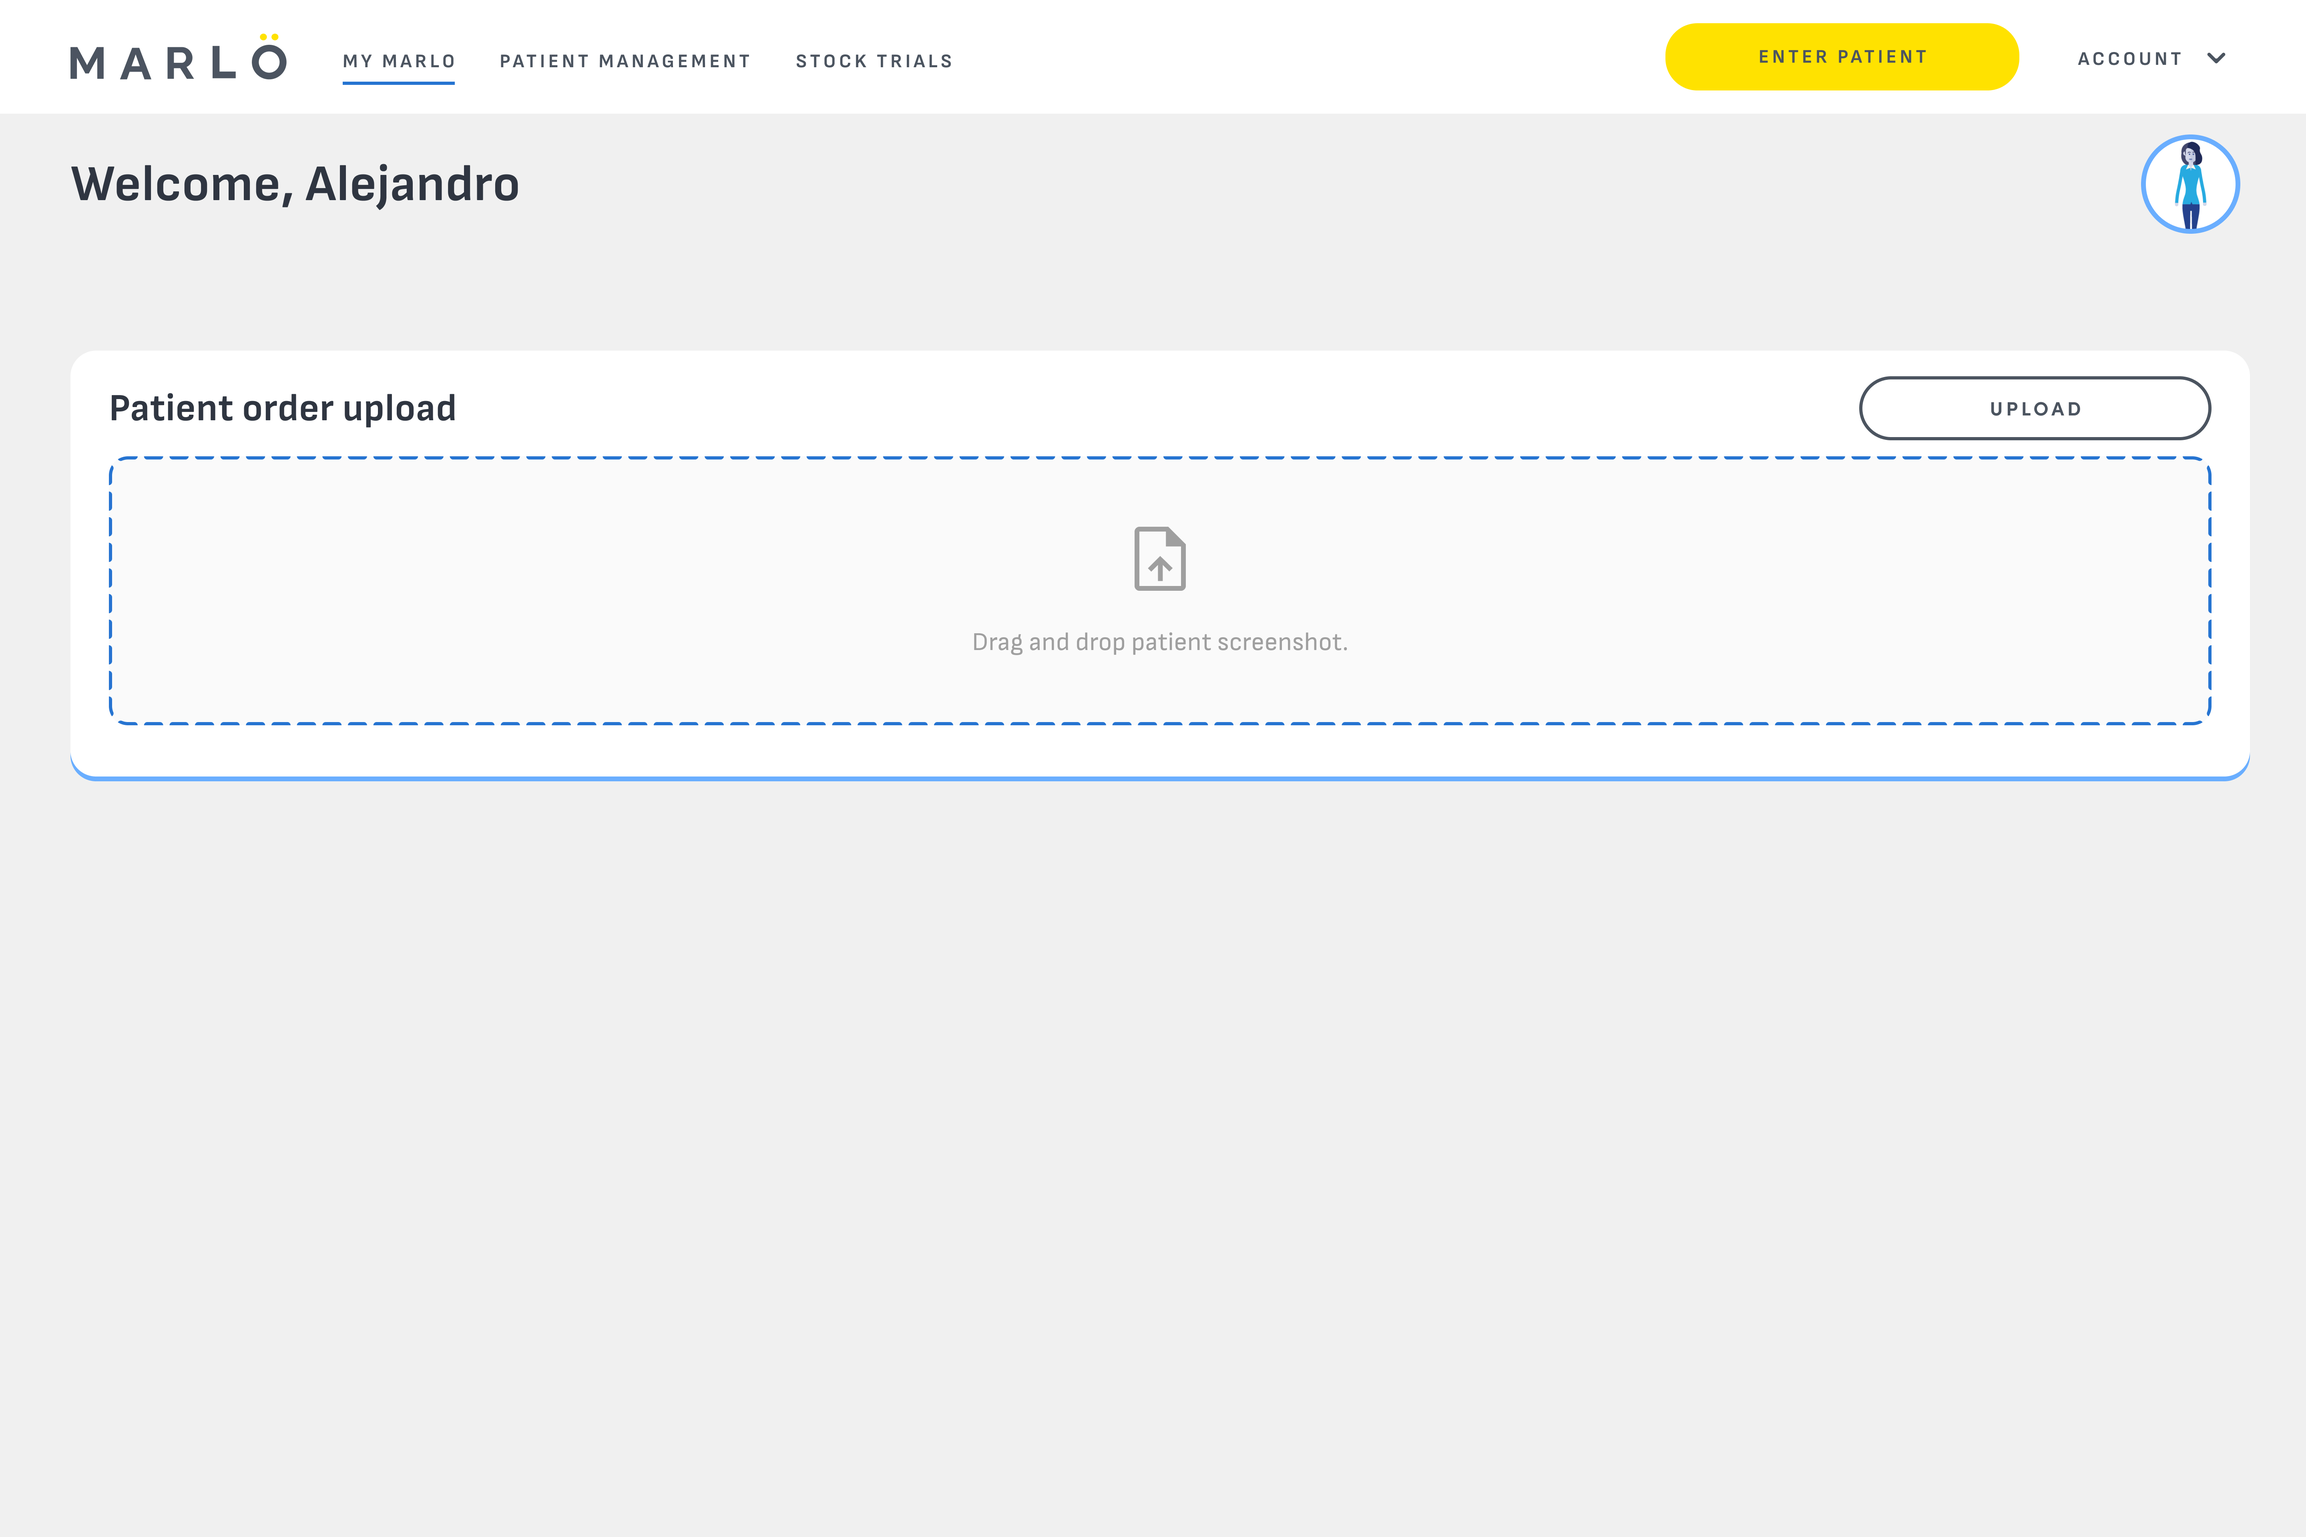
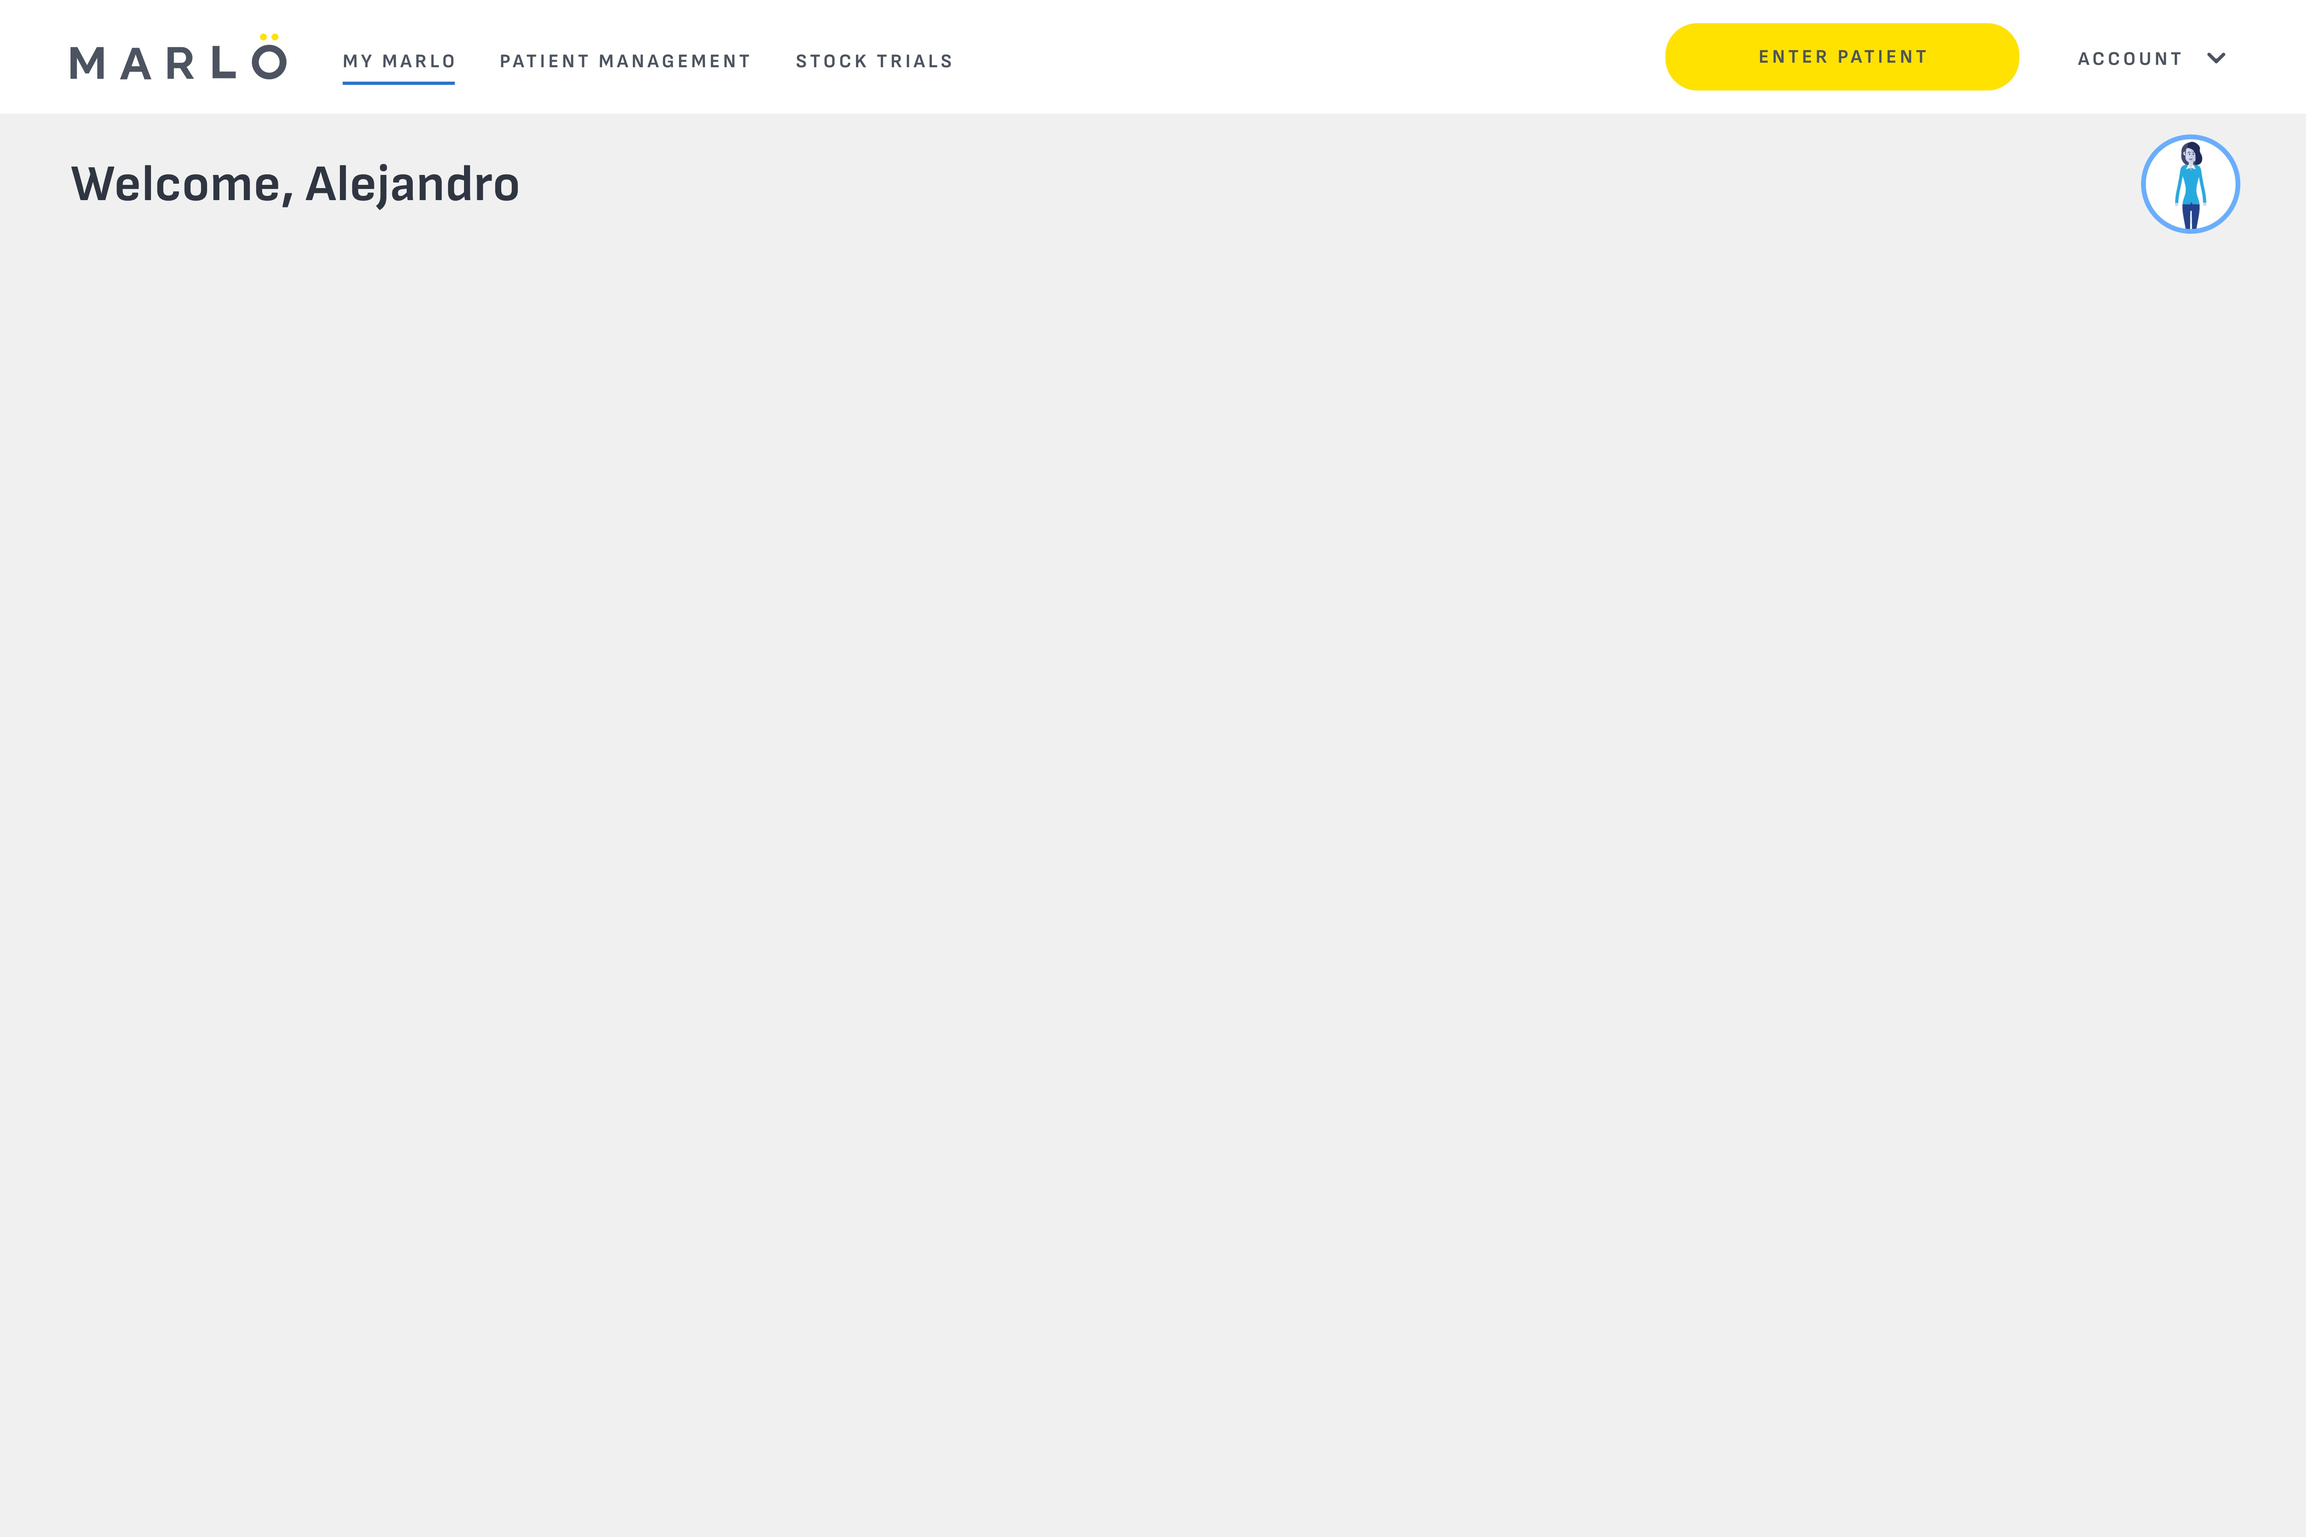
pushing up

diff --git a/client/src/Pages/PendingOrders/PatientOrder.jsx b/client/src/Pages/PendingOrders/PatientOrder.jsx
@@ -121,52 +121,107 @@ const PatientOrder = ({ patientData }) => {
           <path
             d="M4.5 9.09977L7.44029 12.375L13.5 5.625"
             stroke="#4FBD9B"
-            stroke-width="2"
+            strokeWidth="2"
           />
         </svg>{" "}
         <span style={nameStyle}>{patientData.name}</span>
       </div>
-
-      <div style={sectionStyle}>
-        <div style={titleStyle}>Right Eye (OD)</div>
-        <div style={productStyle}>
-          <img src={productImage} alt="Product" style={productImageStyle} />
-          <div style={productInfoStyle}>
-            <div style={productNameStyle}>{patientData.productName}</div>
-            <div style={shippingDurationStyle}>
-              {patientData.shippingDuration}
+      <div
+        style={{
+          display: "flex",
+          flexDirection: "row",
+          justifyContent: "space-between",
+          width: "1200px",
+        }}
+      >
+        <div style={{ width: "48%" }}>
+          <div style={sectionStyle}>
+            <div style={titleStyle}>Right Eye (OD)</div>
+            <div style={productStyle}>
+              <img src={productImage} alt="Product" style={productImageStyle} />
+              <div style={productInfoStyle}>
+                <div style={productNameStyle}>{patientData?.supplierRight}</div>
+                <div style={shippingDurationStyle}>
+                  {patientData?.manufacturerRight}
+                </div>
+              </div>
             </div>
           </div>
-        </div>
-      </div>
 
-      <div style={sectionStyle}>
-        <div style={prescriptionStyle}>
-          <div style={prescriptionItemStyle}>
-            <div style={propertiesLabelStyle}>BC</div>
-            <div style={propertiesStyle}>{patientData.prescription.BC}</div>
+          <div style={sectionStyle}>
+            <div style={prescriptionStyle}>
+              <div style={prescriptionItemStyle}>
+                <div style={propertiesLabelStyle}>BC</div>
+                <div style={propertiesStyle}>{patientData?.baseCurveRight}</div>
+              </div>
+              <div style={prescriptionItemStyle}>
+                <div style={propertiesLabelStyle}>DIA</div>
+                <div style={propertiesStyle}> {patientData?.diameterRight}</div>
+              </div>
+              <div style={prescriptionItemStyle}>
+                <div style={propertiesLabelStyle}>SPH</div>
+                <div style={propertiesStyle}>{patientData?.sphereRight}</div>
+              </div>
+              <div style={prescriptionItemStyle}>
+                <div style={propertiesLabelStyle}>CYL</div>
+                <div style={propertiesStyle}>
+                  {patientData?.prescription?.CYL
+                    ? patientData?.prescription?.CYL
+                    : "--"}
+                </div>
+              </div>
+            </div>
           </div>
-          <div style={prescriptionItemStyle}>
-            <div style={propertiesLabelStyle}>DIA</div>
-            <div style={propertiesStyle}> {patientData.prescription.DIA}</div>
-          </div>
-          <div style={prescriptionItemStyle}>
-            <div style={propertiesLabelStyle}>PWR</div>
-            <div style={propertiesStyle}>{patientData.prescription.PWR}</div>
-          </div>
-          <div style={prescriptionItemStyle}>
-            <div style={propertiesLabelStyle}>CYL</div>
-            <div style={propertiesStyle}>{patientData.prescription.CYL}</div>
+
+          <div style={sectionStyle}>
+            <div style={titleStyle}>Address</div>
+            <div style={addressStyle}>{patientData?.address}</div>
           </div>
         </div>
-      </div>
 
-      <div style={sectionStyle}>
-        <div style={titleStyle}>Address</div>
-        <div style={addressStyle}>
-          {patientData.address.street}
-          <br />
-          {patientData.address.cityStateZip}
+        <div style={{ width: "48%" }}>
+          <div style={sectionStyle}>
+            <div style={titleStyle}>Left Eye (OS)</div>
+            <div style={productStyle}>
+              <img src={productImage} alt="Product" style={productImageStyle} />
+              <div style={productInfoStyle}>
+                <div style={productNameStyle}>{patientData?.supplierLeft}</div>
+                <div style={shippingDurationStyle}>
+                  {patientData?.manufacturerLeft}
+                </div>
+              </div>
+            </div>
+          </div>
+
+          <div style={sectionStyle}>
+            <div style={prescriptionStyle}>
+              <div style={prescriptionItemStyle}>
+                <div style={propertiesLabelStyle}>BC</div>
+                <div style={propertiesStyle}>{patientData?.baseCurveLeft}</div>
+              </div>
+              <div style={prescriptionItemStyle}>
+                <div style={propertiesLabelStyle}>DIA</div>
+                <div style={propertiesStyle}> {patientData?.diameterLeft}</div>
+              </div>
+              <div style={prescriptionItemStyle}>
+                <div style={propertiesLabelStyle}>SPH</div>
+                <div style={propertiesStyle}>{patientData?.sphereLeft}</div>
+              </div>
+              <div style={prescriptionItemStyle}>
+                <div style={propertiesLabelStyle}>CYL</div>
+                <div style={propertiesStyle}>
+                  {patientData?.prescription?.CYL
+                    ? patientData?.prescription?.CYL
+                    : "--"}
+                </div>
+              </div>
+            </div>
+          </div>
+
+          <div style={sectionStyle}>
+            <div style={titleStyle}>Address</div>
+            <div style={addressStyle}>{patientData?.address}</div>
+          </div>
         </div>
       </div>
     </div>

diff --git a/client/src/Components/FileUpload.jsx b/client/src/Components/FileUpload.jsx
@@ -1,4 +1,3 @@
-// src/FileUpload.js
 import React, { useState, useEffect, useCallback, useRef } from "react";
 import { useDropzone } from "react-dropzone";
 import "./FileUpload.css";
@@ -36,13 +35,11 @@ const img = {
 };
 
 const FileUpload = () => {
-  const [selectedImage, setSelectedImage] = useState(null);
   const [files, setFiles] = useState([]);
   const [prompt, setPrompt] = useState("Drag and drop files here");
   const [formData, setFormData] = useState(null);
   const [error, setError] = useState(null);
   const [loading, setLoading] = useState(false);
-  const [analysis, setAnalysis] = useState(null);
   const fileInputRef = useRef(null);
 
   const getApiBaseUrl = () => {
@@ -59,7 +56,6 @@ const FileUpload = () => {
     if (file) {
       const reader = new FileReader();
       reader.onloadend = () => {
-        setSelectedImage(reader.result);
         setFiles([...acceptedFiles]);
       };
       reader.readAsDataURL(file);
@@ -77,7 +73,6 @@ const FileUpload = () => {
     if (file) {
       const reader = new FileReader();
       reader.onloadend = () => {
-        setSelectedImage(reader.result);
         setFiles([file]);
       };
       reader.readAsDataURL(file);
@@ -88,7 +83,6 @@ const FileUpload = () => {
     event.preventDefault();
     if (!files.length) return;
     setError(null);
-    setAnalysis(null);
     const formData = new FormData();
     formData.append("image", files[0]);
     try {
@@ -104,7 +98,6 @@ const FileUpload = () => {
           result.error || "An error occurred while uploading the image."
         );
       }
-      setAnalysis(result.text);
       const parsedData = parseAnalysisToFormData(result.text);
       setFormData(parsedData);
     } catch (error) {
@@ -158,11 +151,6 @@ const FileUpload = () => {
     }
   };
 
-  const handleFormDataChange = (newFormData) => {
-    setFormData(newFormData);
-    console.log("Updated form data:", newFormData);
-  };
-
   const thumbs = files.map((file) => (
     <div style={thumb} key={file.name}>
       <div style={thumbInner}>
@@ -180,43 +168,46 @@ const FileUpload = () => {
     return () => files.forEach((file) => URL.revokeObjectURL(file.preview));
   }, [files]);
 
-  console.log(formData);
   if (formData) {
-    return <PendingOrders />;
+    return <PendingOrders patientData={formData} />;
   }
 
   return (
-    <div className="upload-container">
-      <div className="upload-header">
-        <h2>Patient order upload</h2>
-        <input
-          type="file"
-          accept="image/*"
-          onChange={handleImageChange}
-          ref={fileInputRef}
-          style={{ display: "none" }}
-        />
-        <button className="upload-button" onClick={handleUpload}>
-          UPLOAD
-        </button>
-      </div>
-      <div {...getRootProps({ className: "dropzone" })}>
-        <input {...getInputProps()} />
-        <div className="dropzone-content">
-          <div className="dropzone-icon">
-            <i className="fas fa-file-upload"></i>
-          </div>
-          {isDragActive ? <p>Drop the files here...</p> : <p>{prompt}</p>}
+    <>
+      <header className="App-header"></header>
+      <div className="upload-container">
+        <div className="upload-header">
+          <h2>Patient order upload</h2>
+          <input
+            type="file"
+            accept="image/*"
+            onChange={handleImageChange}
+            ref={fileInputRef}
+            style={{ display: "none" }}
+          />
+          <button className="upload-button" onClick={handleUpload}>
+            UPLOAD
+          </button>
         </div>
-        <aside style={thumbsContainer}>{thumbs}</aside>
-        {error && (
-          <div style={{ color: "red", textAlign: "center" }}>
-            <h2>Error:</h2>
-            <p>{error}</p>
+        <div {...getRootProps({ className: "dropzone" })}>
+          <input {...getInputProps()} />
+          <div className="dropzone-content">
+            <div className="dropzone-icon">
+              <i className="fas fa-file-upload"></i>
+            </div>
+            {isDragActive ? <p>Drop the files here...</p> : <p>{prompt}</p>}
           </div>
-        )}
+          <aside style={thumbsContainer}>{thumbs}</aside>
+          {loading && <div>Loading...</div>}
+          {error && (
+            <div style={{ color: "red", textAlign: "center" }}>
+              <h2>Error:</h2>
+              <p>{error}</p>
+            </div>
+          )}
+        </div>
       </div>
-    </div>
+    </>
   );
 };
 

diff --git a/client/src/Pages/PendingOrders/PendingOrders.jsx b/client/src/Pages/PendingOrders/PendingOrders.jsx
@@ -3,7 +3,9 @@ import PatientOrder from "./PatientOrder";
 import backgroundImage from "./background.png";
 import ordersImage from "./orders.png";
 
-const PendingOrders = () => {
+const PendingOrders = (props) => {
+  const { patientData } = props;
+  console.log(patientData);
   const containerStyle = {
     position: "relative",
     width: "100%",
@@ -43,22 +45,51 @@ const PendingOrders = () => {
     height: "570px",
   };
 
-  const patientData = {
-    name: "Zain Workman",
-    productImage: "./product-image.png", // You'll need to add this image
-    productName: "DAILIES® AquaComfort Plus® Multifocal",
-    shippingDuration: "12 months shipped",
-    prescription: {
-      BC: "8.6",
-      DIA: "14.2",
-      PWR: "-20.00",
-      CYL: "+1.25",
-    },
-    address: {
-      street: "4993 Street St.",
-      cityStateZip: "Fort Worth, TX 76063",
-    },
-  };
+  // {
+  //   "name": "Moira Rose",
+  //   "address": "13774 Northwest Freeway Sometown, CA 95630",
+  //   "underlyingConditionRight": "--",
+  //   "underlyingConditionLeft": "--",
+  //   "supplierRight": "Eyefinity - ABB",
+  //   "supplierLeft": "Eyefinity - ABB",
+  //   "manufacturerRight": "Alcon Laboratories Inc",
+  //   "manufacturerLeft": "Alcon Laboratories Inc",
+  //   "styleRight": "Precision1 90 Pack",
+  //   "styleLeft": "Precision1 90 Pack",
+  //   "sphereRight": "-5.50",
+  //   "sphereLeft": "-5.50",
+  //   "cylinderRight": "--",
+  //   "cylinderLeft": "--",
+  //   "axisRight": "--",
+  //   "axisLeft": "--",
+  //   "addRight": "--",
+  //   "addLeft": "--",
+  //   "baseCurveRight": "8.3",
+  //   "baseCurveLeft": "8.3",
+  //   "diameterRight": "14.2",
+  //   "diameterLeft": "14.2",
+  //   "colorRight": "Clear",
+  //   "colorLeft": "Clear",
+  //   "quantityRight": "4",
+  //   "quantityLeft": "4"
+  // }
+
+  // const patientData = {
+  //   name: "Zain Workman",
+  //   productImage: "./product-image.png", // You'll need to add this image
+  //   productName: "DAILIES® AquaComfort Plus® Multifocal",
+  //   shippingDuration: "12 months shipped",
+  //   prescription: {
+  //     BC: "8.6",
+  //     DIA: "14.2",
+  //     PWR: "-20.00",
+  //     CYL: "+1.25",
+  //   },
+  //   address: {
+  //     street: "4993 Street St.",
+  //     cityStateZip: "Fort Worth, TX 76063",
+  //   },
+  // };
 
   return (
     <div style={containerStyle}>

diff --git a/client/src/App.jsx b/client/src/App.jsx
@@ -2,10 +2,8 @@ import "./App.css";
 import FileUpload from "./Components/FileUpload.jsx";
 
 function App() {
-  // const [response, setResponse] = useState(null)
   return (
     <div className="App">
-      <header className="App-header"></header>
       <FileUpload />
     </div>
   );
